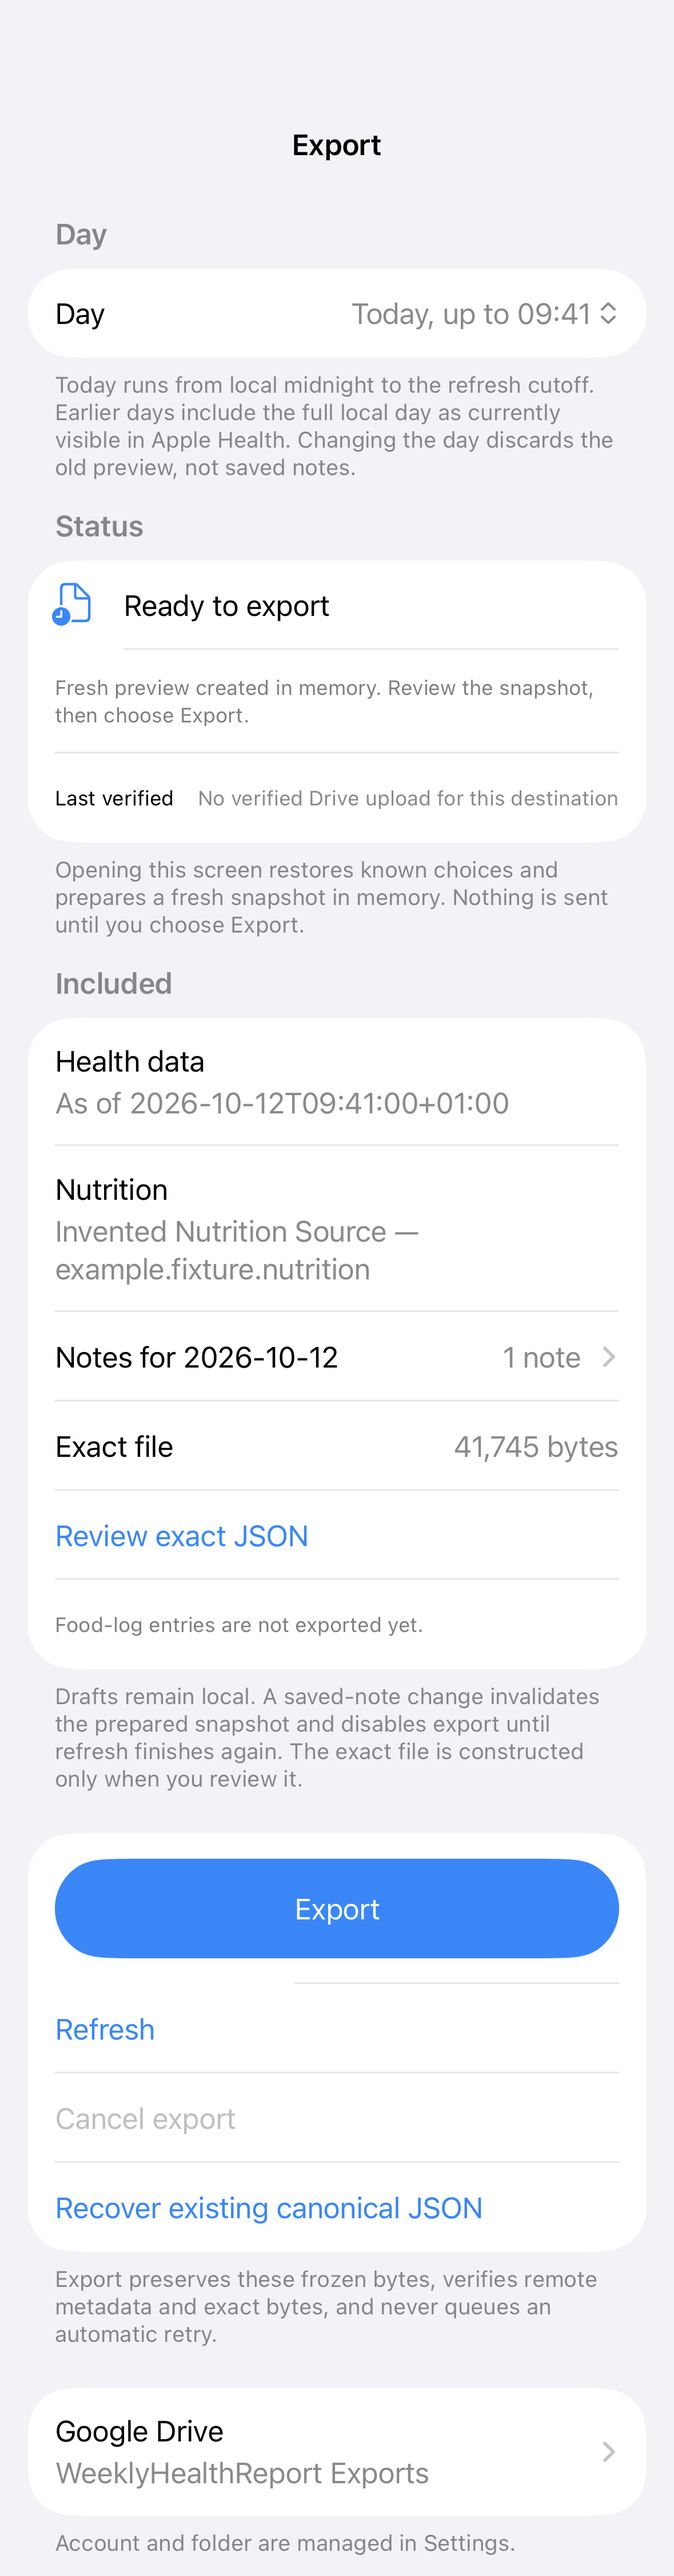
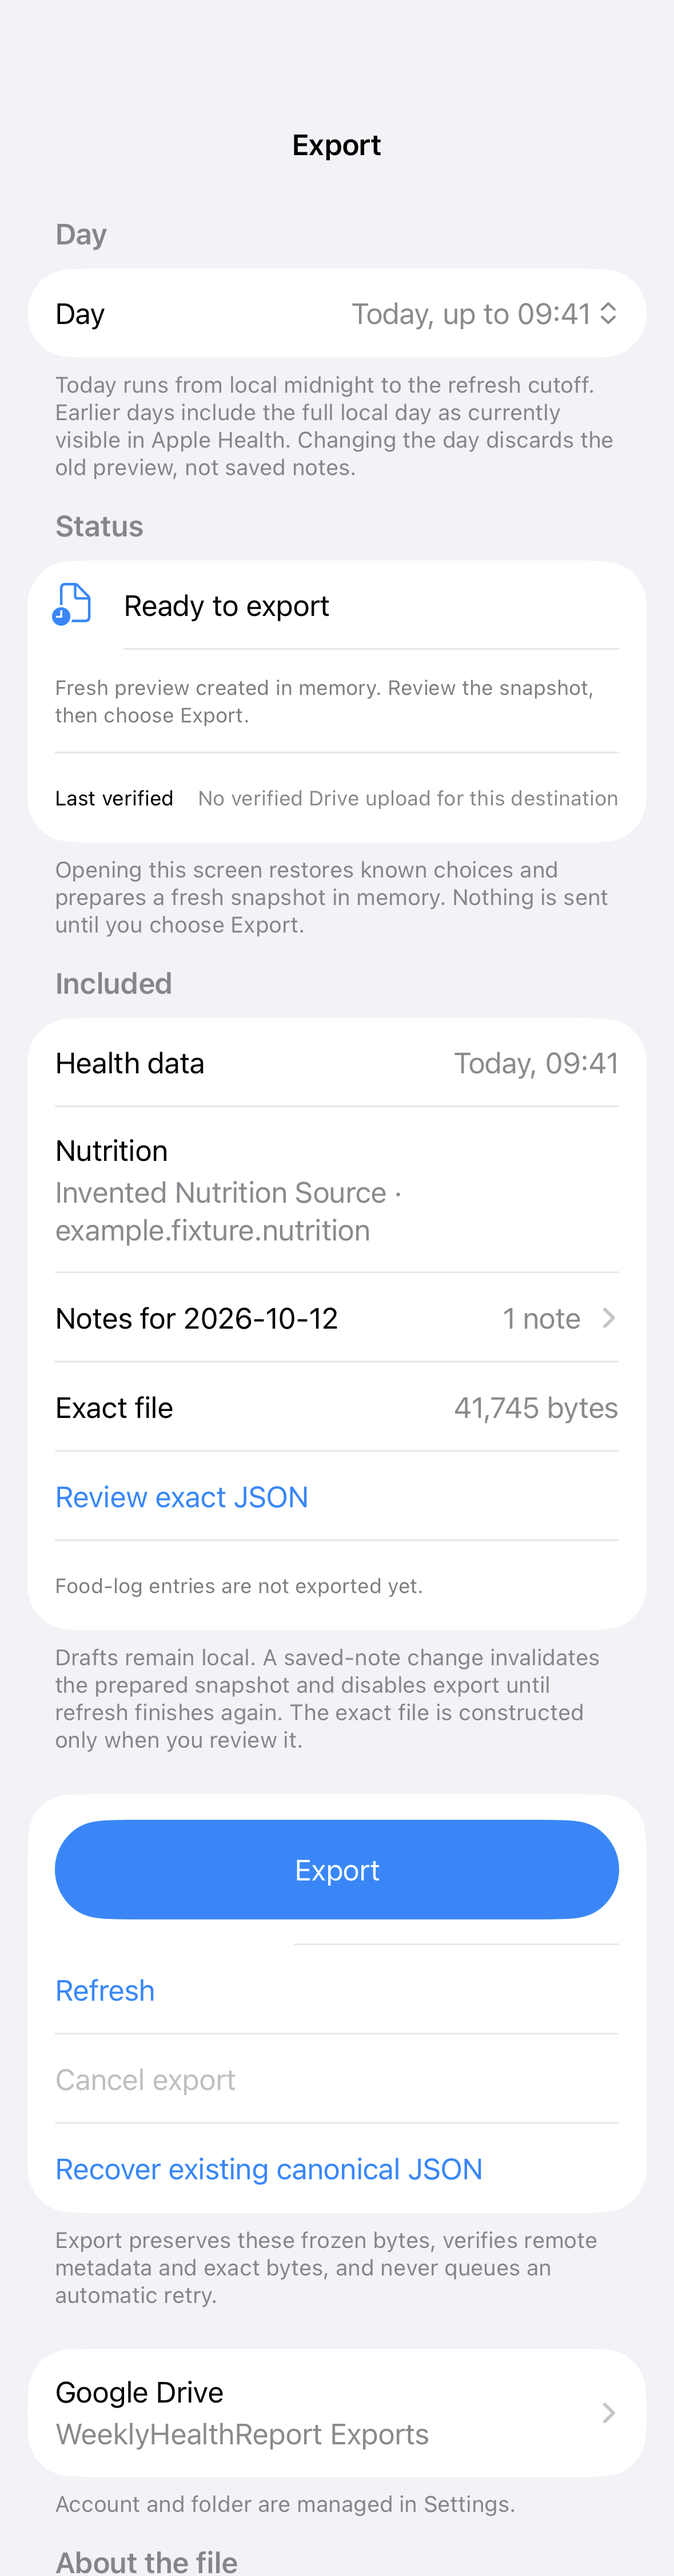
Export: readable Health data time and plain separators
The Included "Health data" row showed a raw ISO timestamp. It now reads like
the day picker ("Today, 09:41" for a snapshot of today, otherwise the weekday
date and time used by "Data up to"), from the snapshot's dataAsOf only.

Nutrition source, saved-source and account labels use a middle dot instead
of an em dash, as do two list review status labels. Display text only; the
exported JSON is unchanged. The README synthetic Export screenshot is
recaptured.

diff --git a/WeeklyHealthReport/GoogleDrive/DailyDriveSessionController.swift b/WeeklyHealthReport/GoogleDrive/DailyDriveSessionController.swift
@@ -265,7 +265,7 @@ final class DailyDriveSessionController: NSObject, ObservableObject, DailyExport
         return DailyExportPreviewSummary(
             reportDate: preview.envelope.reportDate,
             dataAsOf: preview.envelope.dataAsOf,
-            nutritionSource: "\(nutrition.source.name) — \(nutrition.source.bundleIdentifier)",
+            nutritionSource: "\(nutrition.source.name) · \(nutrition.source.bundleIdentifier)",
             savedNoteCount: preview.envelope.today.notes?.count ?? 0,
             currentWindow: "\(context.currentWindow.start) to \(context.currentWindow.end)",
             previousWindow: "\(context.previousWindow.start) to \(context.previousWindow.end)",
@@ -279,9 +279,9 @@ final class DailyDriveSessionController: NSObject, ObservableObject, DailyExport
         guard let source = nutritionSources.first(where: {
             $0.bundleIdentifier == selectedNutritionSourceBundleIdentifier
         }) else {
-            return "Saved source unavailable — \(selectedNutritionSourceBundleIdentifier)"
+            return "Saved source unavailable · \(selectedNutritionSourceBundleIdentifier)"
         }
-        return "\(source.name) — \(source.bundleIdentifier)"
+        return "\(source.name) · \(source.bundleIdentifier)"
     }
     var canRefreshPreview: Bool {
         !busy && notes.storageAvailable && nutritionSources.contains {
@@ -906,7 +906,7 @@ final class DailyDriveSessionController: NSObject, ObservableObject, DailyExport
     private func accept(account: DailyDriveAccount) {
         destinationCoordinator.acceptAccount(account.id)
         self.account = account
-        accountLabel = "\(account.displayName) — \(account.emailAddress)"
+        accountLabel = "\(account.displayName) · \(account.emailAddress)"
         mirrorDestinationState()
         restoreLastVerifiedLabel(for: account.id)
     }

diff --git a/WeeklyHealthReportTests/DailyExportPhaseTests.swift b/WeeklyHealthReportTests/DailyExportPhaseTests.swift
@@ -93,6 +93,23 @@ final class DailyExportPhaseTests: XCTestCase {
         XCTAssertEqual(DailyExportDayLabel.cutoff("unparseable", locale: locale), "unparseable")
     }
 
+    /// The Included "Health data" row reads like the day picker, never a raw ISO timestamp.
+    func testHealthDataAsOfIsReadableAndUsesOnlyTheSnapshot() {
+        let locale = Locale(identifier: "en_GB")
+        XCTAssertEqual(DailyExportDayLabel.dataAsOf("2026-10-12T09:41:00+01:00", reportDate: "2026-10-12",
+                                                    todayReportDate: "2026-10-12", locale: locale), "Today, 09:41")
+        XCTAssertEqual(DailyExportDayLabel.dataAsOf("2026-10-12T00:00:00+01:00", reportDate: "2026-10-11",
+                                                    todayReportDate: "2026-10-12", locale: locale),
+                       "Monday 12 October, 00:00", "yesterday's full day is not 'Today'")
+        XCTAssertEqual(DailyExportDayLabel.dataAsOf("2026-10-12T09:41:00+01:00", reportDate: "2026-10-12",
+                                                    todayReportDate: nil, locale: locale), "Monday 12 October, 09:41")
+        XCTAssertEqual(DailyExportDayLabel.dataAsOf("historical-v2|2026-10-11T00:00:00+01:00|2026-10-12T09:15:00+01:00",
+                                                    reportDate: "2026-10-10", todayReportDate: "2026-10-12", locale: locale),
+                       "Sunday 11 October, 00:00")
+        XCTAssertEqual(DailyExportDayLabel.dataAsOf("unparseable", reportDate: "2026-10-12",
+                                                    todayReportDate: "2026-10-12", locale: locale), "unparseable")
+    }
+
     func testPreviousDaysUseWeekdayNames() {
         let locale = Locale(identifier: "en_GB")
         XCTAssertEqual(DailyExportDayLabel.previousDay(reportDate: "2026-09-05", locale: locale), "Saturday 5 September")

diff --git a/WeeklyHealthReport/Presentation/DailyExportPhase.swift b/WeeklyHealthReport/Presentation/DailyExportPhase.swift
@@ -86,6 +86,21 @@ enum DailyExportDayLabel {
         return "Today, up to \(time)"
     }
 
+    /// When a prepared snapshot's Health data runs to: "Today, 09:41" for a
+    /// snapshot of today, otherwise the same weekday date and time as "Data
+    /// up to", such as "Monday 12 October, 00:00" for yesterday's full day.
+    /// Uses only the snapshot's dates; the clock is never read. Unreadable
+    /// input is shown as is.
+    static func dataAsOf(_ dataAsOf: String, reportDate: String, todayReportDate: String?, locale: Locale) -> String {
+        let parts = dataAsOf.split(separator: "|", omittingEmptySubsequences: false).map(String.init)
+        let timestamp = parts.count == 3 ? parts[1] : dataAsOf
+        if let todayReportDate, reportDate == todayReportDate,
+           let time = localTime(in: timestamp, onReportDate: todayReportDate) {
+            return "Today, \(time)"
+        }
+        return cutoff(dataAsOf, locale: locale)
+    }
+
     /// A weekday name for one of the previous seven days, such as
     /// "Saturday 5 September". Falls back to the report date itself.
     static func previousDay(reportDate: String, locale: Locale) -> String {

diff --git a/WeeklyHealthReport/Views/DailyExportView.swift b/WeeklyHealthReport/Views/DailyExportView.swift
@@ -206,7 +206,12 @@ struct DailyExportView: View {
     private var includedSection: some View {
         Section {
             if let summary = session.previewSummary {
-                LabeledContent("Health data", value: "As of \(summary.dataAsOf)")
+                LabeledContent("Health data", value: DailyExportDayLabel.dataAsOf(
+                    summary.dataAsOf,
+                    reportDate: summary.reportDate,
+                    todayReportDate: todayID?.reportDate,
+                    locale: .autoupdatingCurrent
+                ))
                 LabeledContent("Nutrition", value: summary.nutritionSource)
             } else {
                 LabeledContent("Health data", value: "Not prepared")
@@ -278,7 +283,7 @@ struct DailyExportView: View {
                 ) {
                     Text("Choose a source").tag("")
                     ForEach(session.nutritionSources) { source in
-                        Text("\(source.name) — \(source.bundleIdentifier)")
+                        Text("\(source.name) · \(source.bundleIdentifier)")
                             .tag(source.bundleIdentifier)
                     }
                 }

diff --git a/Packages/FoodLedgerKit/Sources/FoodLedgerPresentation/FoodListImportView.swift b/Packages/FoodLedgerKit/Sources/FoodLedgerPresentation/FoodListImportView.swift
@@ -12,9 +12,9 @@ public enum FoodListLineStatus: Equatable, Sendable {
         case .candidates: "Choose a match"
         case .declined: "Declined"
         case .deferred: "Deferred"
-        case .context: "Context — not logged"
+        case .context: "Context, not logged"
         case .unresolved: "Unresolved"
-        case .failed: "Failed — retry available"
+        case .failed: "Failed, retry available"
         case .saved: "Saved"
         }
     }
